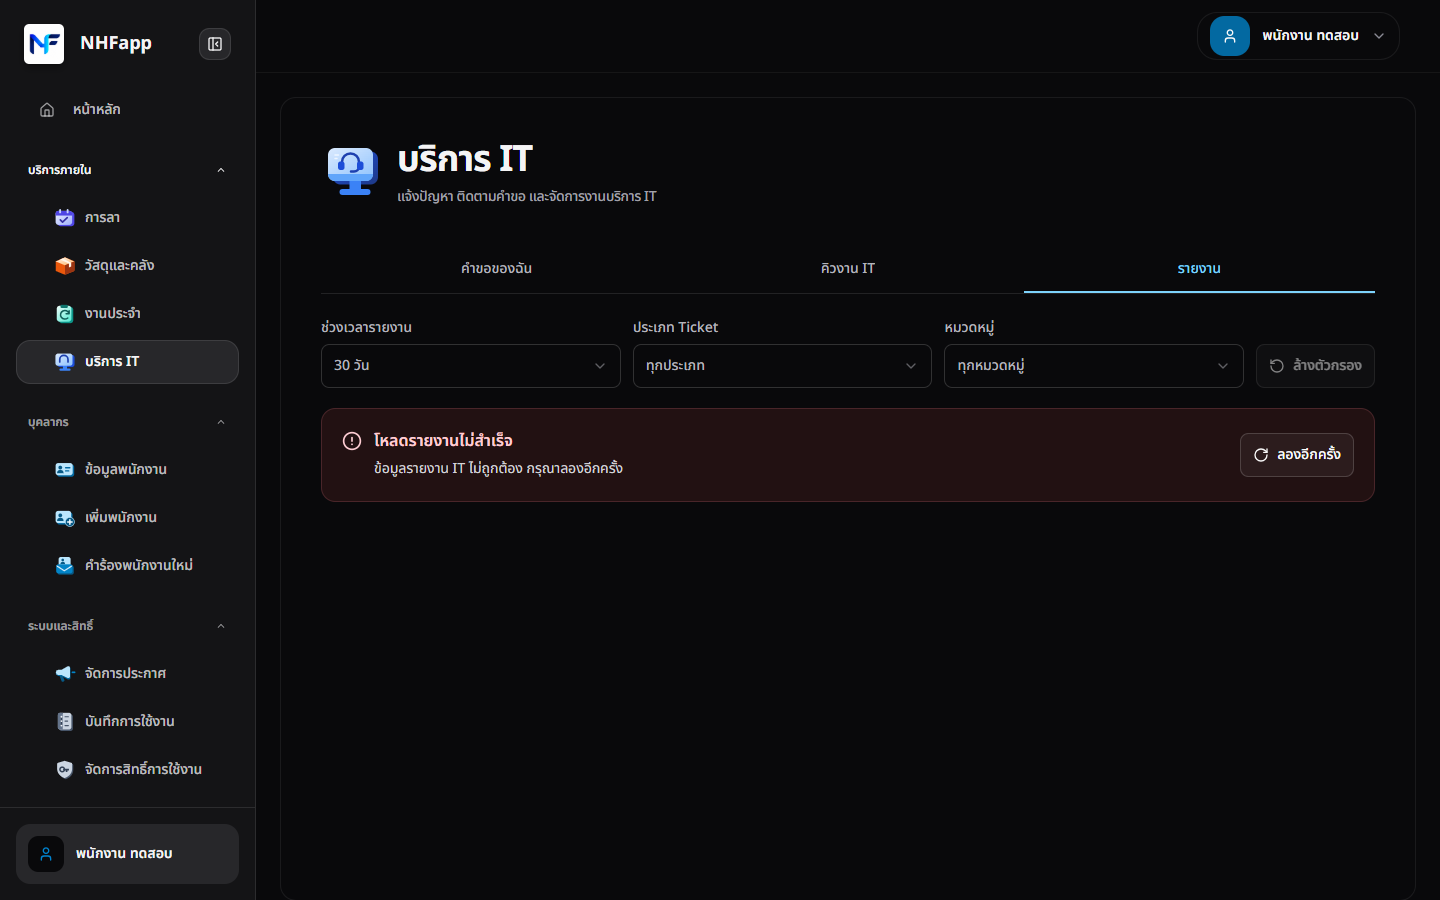
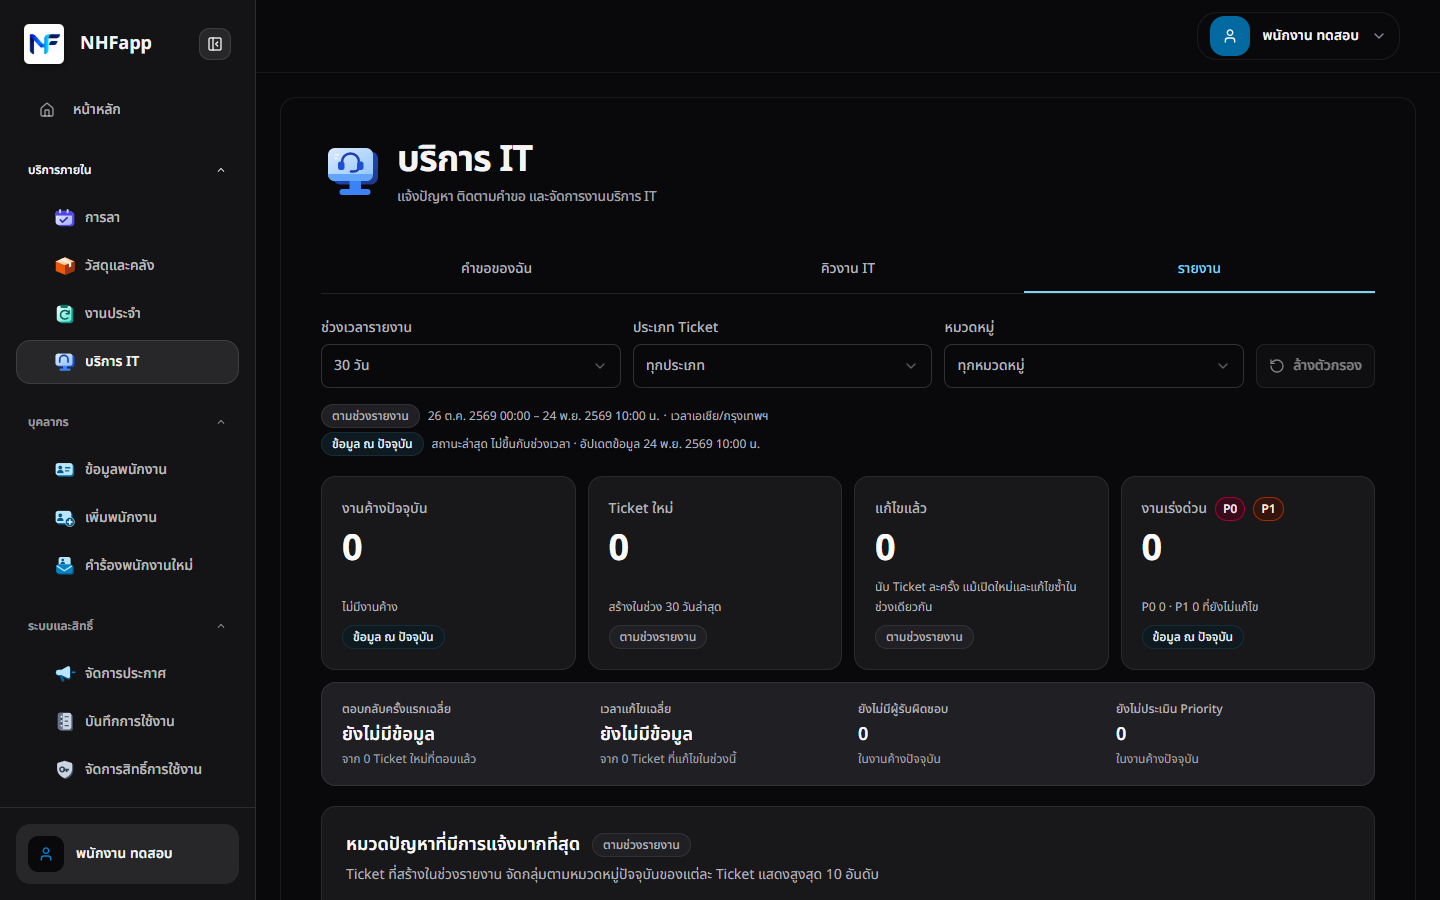
test(design): validate analytics ready state in workspace header verification

diff --git a/docs/verification/workspace-header-visual-identity/README.md b/docs/verification/workspace-header-visual-identity/README.md
@@ -18,7 +18,9 @@ Chromium renders the actual Dashboard workspaces and LIFF module components with
 | Authorization administration | [Capture](1440-dashboard-authorization-administration-light.png) | [Capture](1440-dashboard-authorization-administration-dark.png) |
 | Audit logs | [Capture](1440-dashboard-audit-logs-light.png) | [Capture](1440-dashboard-audit-logs-dark.png) |
 
-The IT [Queue](1440-dashboard-it-queue-light.png) and [Analytics](1440-dashboard-it-analytics-dark.png) tabs show a single workspace identity. At smaller widths compare [Routine at 1024px](1024-dashboard-routine-dark.png), [Routine at 768px](768-dashboard-routine-light.png), [Import at 390px](390-dashboard-import-employee-light.png), and [Authorization at 320px](320-dashboard-authorization-administration-dark.png). The other responsive Dashboard captures follow the same filename pattern.
+The IT [Queue](1440-dashboard-it-queue-light.png) and Analytics tabs show a single workspace identity. The Analytics captures show the loaded report with zero counts using all five backlog aging buckets. [Light](1440-dashboard-it-analytics-light.png) · [Dark](1440-dashboard-it-analytics-dark.png)
+
+At smaller widths compare [Routine at 1024px](1024-dashboard-routine-dark.png), [Routine at 768px](768-dashboard-routine-light.png), [Import at 390px](390-dashboard-import-employee-light.png), and [Authorization at 320px](320-dashboard-authorization-administration-dark.png). The other responsive Dashboard captures follow the same filename pattern.
 
 ## LINE LIFF
 
@@ -36,6 +38,8 @@ The IT [Queue](1440-dashboard-it-queue-light.png) and [Analytics](1440-dashboard
 - LIFF [IT request form](390-liff-it-create-light.png) and [ticket detail](390-liff-it-detail-dark.png) retain contextual headings. The sticky master logo and navigation remain visible.
 
 The workspace checks exercise primary artwork resolution and decoding, empty alt text, heading count and focusability, responsive artwork geometry, horizontal overflow, the Routine export, CSV back and authorization refresh controls, IT tab changes, and artwork fallback without moving the heading. API requests stay local to the fixture.
+
+The Analytics check requires the active report tab, its loaded overview, and an absent loading indicator and error alert before verifying the heading and capturing the screenshot. With the original empty aging array, the check failed on the invalid-report alert. The corrected workspace suite passed 106 cases, and the separate IT Analytics browser regression passed 56 cases.
 
 ## Reproduce
 
